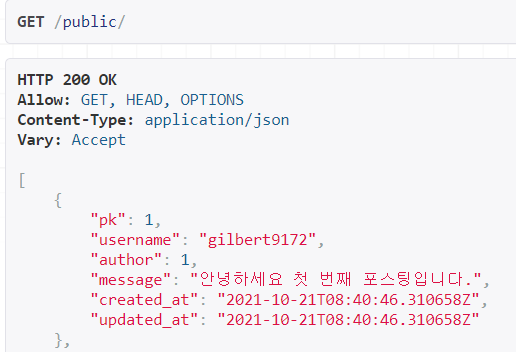
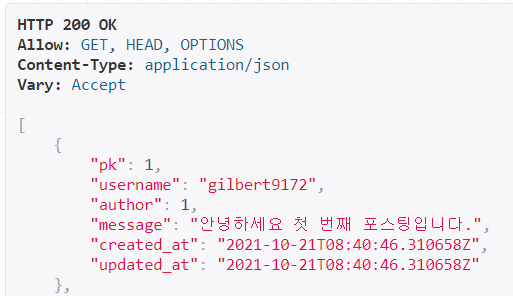
21.11.02

diff --git a/_posts/2021-11-01-APIView.md b/_posts/2021-11-01-APIView.md
@@ -1,0 +1,211 @@
+---
+layout: post
+title: APIView
+categories: django
+tags: drf
+---
+
+### 💡 ***Serializer를 통한 View 처리***
+
+Serializer를 통한 View 처리는 Form 처리와 유사한 방식으로 동작한다. 
+
+```python
+class PostSerializer(serializers.ModelSerializer):
+    class Meta:
+        model = Post
+        fields = '__all__'
+
+# views.py ; 여기서는 DRF기능은 거의 없다.
+serializer = PostSerialize(data=request.POST)
+if serializer.is_valid():
+    return JsonReponse(seializer.data, status=200)
+return JsonResponse(serializer.errors, status=400)
+```
+
+여기서 둘의 차이점은 Form 생성자의 첫 번째 인자는 <span style="color:#3CB371">**data**</span>이지만,
+
+Serializer 생성자의 첫 번째 인자는 <span style="color:#3CB371">**instance**</span>이다.
+
+instance 인자에는 '모델 객체' 혹은 'Queryset'을 전달해준다.
+
+```python
+# django/forms/forms.py/BaseForm
+class BaseForm(RenderableFormMixin):
+    # 생략
+    def __init__(self,data=None,):
+        # 생략
+
+# rest_framework/serializers.py/BaseSerializer
+class BaseSerializer(Field):
+    def __init__(self, instance=None, data=empty, **kwargs):
+        # 생략
+```
+---
+
+<br>
+
+### 💡 ***DRF의 기본 CBV인 APIView***
+
+DRF를 사용한다면 "APIView 클래스"를 상속 받아서 View를 구현해야 한다.
+
+실제로 GenericAPIView는 APIView를 상속 받고, `queryset`과 `serializer_class`을
+
+제외하고는 default값을 사용한다.
+
+```python
+# rest_framework/generics.py
+class GenericAPIView(views.APIView):
+    queryset = None
+    serializer_class = None
+    # 생략
+```
+<br>
+
+또한 함수 기반 View를 구현한다면, <span style="color:#9932CC">**@api_view**</span>를 사용하면 된다.
+
+```python
+# rest_framework/decorators.py/
+def api_view(http_method_names=None):
+    """
+    FBV를 APIView 하위 클래스로 변환하는 데코레이터.
+    View에 대해 허용되는 메서드 목록을 인수로 사용한다.
+    """
+    http_method_names = ['GET'] if (http_method_names is None) else http_method_names
+
+    def decorator(func):
+
+        WrappedAPIView = type(
+            'WrappedAPIView',
+            (APIView,),
+            {'__doc__': func.__doc__}
+        )
+```
+
+Python의 type을 활용하여 동적으로 `APIView` 클래스를 상속 받은 
+
+`WrappedAPIView` 클래스를 만들어서 로직을 처리하고 있다.
+
+즉, <span style="color:#9932CC">**@api_view**</span>도 `APIView`클래스를 활용하고 있다는 걸 확인할 수 있다.
+
+<br>
+
+`APIView` 클래스는 View에 여러 기본 속성을 부여한다.
+
+아래의 클래스는 모두 사용자가 커스텀 가능하다.
+
+<br>
+
+1. renderer_classes : 직렬화 class 
+    - rest_framework.renderers.JSONRenderer : JSON 직렬화
+    - rest_framework.renderers.TemplateHTMLRendere` : HTML 페이지 직렬화
+
+2. parser_classes : 비직렬화 class
+    - rest_framework.parsers.JSONParser : JSON 포맷 처리
+    - rest_framework.parsers.FormParser
+    - rest_framework.parsers.MultiPartParser
+
+3. authentication_classes : 인증 class 
+    - user를 식별한다.
+    - rest_framework.authentication.SessionAuthentication : 세션에 기반한 인증
+    - rest_framework.authentication.BasicAuthentication : HTTP Basic 인증
+
+4. throttle_classes  : 사용량 제한 class 
+    - 빈 튜플
+
+5. permission_classes  : 권한 class 
+    - user를 식별 후 각각의 리소스에 대해서 접근 권한 확인
+    - rest_framework.permissions.AllowAny : 누구라도 접근 허용
+
+6. content_negotiation_class  : 요청에 따라 적절한 직렬화/비직렬화 class를 선택하는 class
+    - rest_framework.negotiation.DefaultContentNegotiation
+    - 같은 URL로의 요청이지만, JSON응답을 요구하는 것이냐 / HTML응답을 요구하는 것인지 판단
+
+7. metadata_class  : 메타 정보를 처리하는 class
+    - rest_framework.metadata.SimpleMetadata
+
+8. versioning_class  : 요청에서 API버전 정보를 탐지하는 class
+    - None : API 버전 정보를 탐지하지 않겠다
+    - 요청 URL에서, GET인자에서, HEADER에서 버전정보를 탐지하여, 해당 버전의 API뷰가 호출되도록 합니다.
+
+---
+
+<br>
+
+### 💡 ***APIView vs @api_view***
+
+DRF의 2가지 기본 View가 있는데, 하나는 APIView(↔ View)와
+
+@api_view(↔ request)가 있다. 이렇게 해줘야만 앞에서 언급했던
+
+기능들을 활용할 수 있게 된다.
+
+<br>
+
+#### 🔎 APIView
+
+APIView는 하나의 CBV로 하나의 URL만 처리가 가능하다. 
+
+이것을 조금 표준화해 놓은 것이 Generic인데, Generic도 APIView와 
+
+마찬가지로 하나의 URL만 처리가 가능하다. 
+
+반면에, ViewSet은 2개의 URL을 처리할 수 있는데, 이는 Generic을 구체화 한 클래스이다.
+
+<br>
+
+아래는 APIView의 초기화(Initial) 설정 단계인데
+
+```txt
+1. 직렬화/비직렬화 처리 (JSON 등)
+
+2. 인증 체크
+
+3. 사용량 제한 체크 : 호출 허용량 범위인지 체크
+
+4. 권한 클래스 지정 : 비인증/인증 유저에 대해 해당 API 호출을 허용할 것인지를 결정
+
+5. 요청된 API 버전 문자열을 탐지하여, request.version에 저장
+```
+
+초기화 단계에서 필요한 것들을 모두 설정한 이후에,
+
+각 method(get, post, put, delete)를 호출해 주는 기능이 APIView에 있다.
+
+```python
+# rest_framework/views.py
+
+def dispatch(self, request, *args, **kwargs):
+    # 생략
+    try:
+        self.initial(request, *args, **kwargs)
+
+        if request.method.lower() in self.http_method_names: # 지원하는 Http 메소드
+            handler = getattr(self, request.method.lower(),
+                                self.http_method_not_allowed)
+        else:
+            handler = self.http_method_not_allowed
+
+        response = handler(request, *args, **kwargs)
+
+    except Exception as exc:
+        response = self.handle_exception(exc)
+
+    self.response = self.finalize_response(request, response, *args, **kwargs)
+    return self.response
+
+# def initial
+
+def initial(self, request, *args, **kwargs):
+
+    self.format_kwarg = self.get_format_suffix(**kwargs)
+
+    neg = self.perform_content_negotiation(request)
+    request.accepted_renderer, request.accepted_media_type = neg
+
+    version, scheme = self.determine_version(request, *args, **kwargs)
+    request.version, request.versioning_scheme = version, scheme
+
+    self.perform_authentication(request)
+    self.check_permissions(request)
+    self.check_throttles(request)
+```

diff --git a/_posts/2021-11-01-직렬화.md b/_posts/2021-11-01-직렬화.md
@@ -29,7 +29,7 @@ tags: drf
 
 ##### JSON
 
-１. 다른 언어/플랫포과 통신할 때 주로 사용.
+１. 다른 언어/플랫폼과 통신할 때 주로 사용.
 
 ２. 표준 라이브러리 json 제공
 
@@ -45,11 +45,11 @@ data = [{'message':'django'}]
 # 직렬화 - 문자열 타입
 json_string = json.dumps(data)
 print(json_string) 
-# 출력 : [{'message':'django'}]
+# 출력: [{'message':'django'}]
 
 # 비직렬화
 print(json.loads(json_string))
-[{'message':'django'}]
+# 출력: [{'message':'django'}]
 ```
 
 <br>
@@ -84,7 +84,7 @@ print(pickle.loads(pickle_string))
 
 하지만 JSON/Pickle 모두 파이썬 기본 라이브러리이다. 
 
-따라서 <span style="color:#DC143C">**장고 타입(Model/Queryset 등)에 대해서는 직력화 규칙이 없다.**</span>
+따라서 <span style="color:#DC143C">**장고 타입(Model/Queryset 등)에 대해서는 직력화 Rule이 없다.**</span>
 
 만약에 Queryset을 직렬화를 시도할 경우에는 아래와 같은 오류가 발생한다.
 
@@ -98,7 +98,7 @@ print(pickle.loads(pickle_string))
 
 ### 💡 ***DjagnoJSONEncoder***
 
-위와 같이 에러가 생긴경우 DjagnoJSONEncoder를 시도해 해서 몇가지
+위와 같이 에러가 생긴경우 DjagnoJSONEncoder를 시도해서 몇 가지
 
 Rule을 추가로 부여할 수 있다.
 
@@ -184,7 +184,7 @@ json.dumps(data, cls = MyJSONEncoder, ensure_ascii=False)
 
 rest_framwork/utils/encoders.py의 <span style="color:#4682B4">**JSONEncoder**</span>를 통한 직렬화.
 
-Model 타입은 지원하지 않고, ModelSerializer에서 지원해준다.
+Model 타입은 여기서 지원하지 않고, ModelSerializer에서 지원해준다.
 
 <br>
 

diff --git a/_posts/2021-11-01-json응답.md b/_posts/2021-11-01-json응답.md
@@ -11,9 +11,9 @@ tags: drf
 
 일반적으로 아래의 2가지 방법이 있다.
 
-1. 직접 json.dumps를 통해 직렬화된 문자열을 획득하여 HttpResponse를 통해 응답
-
 <br>
+
+1. 직접 json.dumps를 통해 직렬화된 문자열을 획득하여 HttpResponse를 통해 응답
 
 2. JsonResponse(HttpResponse를 상속 받은 클래스) 사용
 
@@ -122,11 +122,9 @@ ModelViewSet을 사용할 경우 urls.py에서 router를 꼭 설정해줘야 한
 
 <br>
 
-#### 포스팅 조회 응담에 username 응답하기.
+#### 포스팅 조회 응답에 username 응답하기.
 
 １. ReadOnlyField 활용
-
-<img src="/assets/img/django/username1.png">
 
 ```python
 # serializers.py
@@ -148,11 +146,11 @@ class PostSerializer(serializers.ModelSerializer):
         ]
 ```
 
+<img src="/assets/img/django/username1.png">
+
 <br>
 
 ２. Class 상속 방식
-
-<img src="/assets/img/django/username2.png">
 
 ```python
 # serializers.py
@@ -176,3 +174,7 @@ class PostSerialize(serializers.ModelSerializer):
             'updated_at'
         ]
 ```
+
+<img src="/assets/img/django/username2.png">
+
+---
